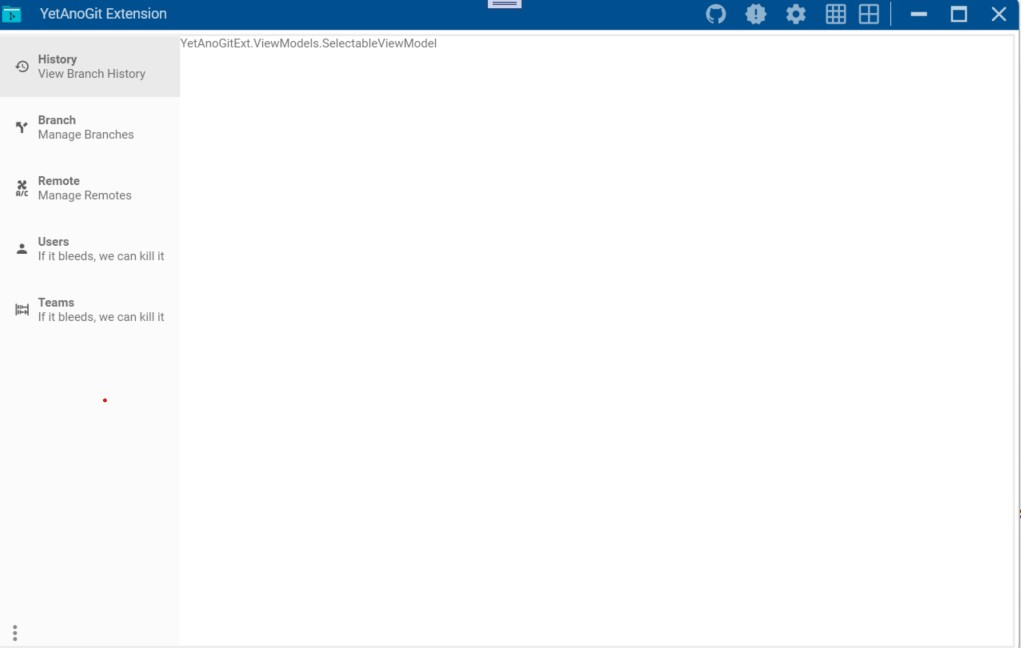
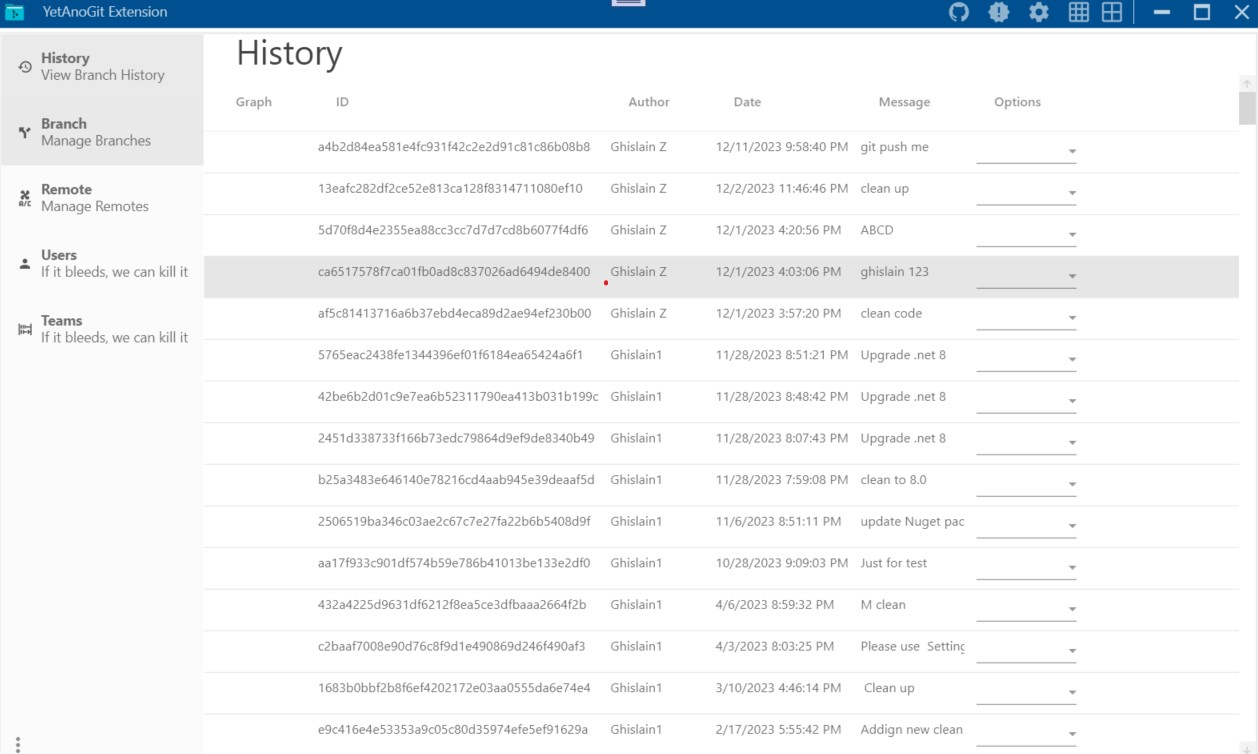
end

diff --git a/src/YetAnoGitExt/Views/History/HistoryView.xaml b/src/YetAnoGitExt/Views/History/HistoryView.xaml
@@ -9,7 +9,46 @@
     d:DesignHeight="450"
     d:DesignWidth="800"
     mc:Ignorable="d">
-  <Grid>
-   
-  </Grid>
+    <Grid>
+        <Grid.ColumnDefinitions>
+            <ColumnDefinition />
+        </Grid.ColumnDefinitions>
+        <Grid.RowDefinitions>
+            <RowDefinition Height="Auto" />
+            <RowDefinition Height="*" />
+        </Grid.RowDefinitions>
+
+        <TextBlock
+            Grid.Row="0"
+            Grid.Column="0"
+            Margin="32,0,0,0"
+            Style="{StaticResource MaterialDesignHeadline4TextBlock}"
+            Text="{Binding Name}" />
+
+        <ListView
+            Grid.Row="1"
+            Grid.Column="0"
+            ItemsSource="{Binding GitRevisionCollection}">
+            <ListView.View>
+                <GridView>
+                    <GridViewColumn DisplayMemberBinding="{Binding Graph}" Header="Graph" />
+                    <GridViewColumn DisplayMemberBinding="{Binding Guid}" Header="ID" />
+                    <GridViewColumn DisplayMemberBinding="{Binding Author}" Header="Author" />
+          <GridViewColumn DisplayMemberBinding="{Binding CommitDate}" Header="Date" />
+          <GridViewColumn DisplayMemberBinding="{Binding Subject}" Header="Message" />
+          <GridViewColumn Header="Options">
+                        <GridViewColumn.CellTemplate>
+                            <DataTemplate>
+                                <ComboBox Width="100">
+                                    <ComboBoxItem Content="Test" />
+                                    <ComboBoxItem Content="Test2" />
+                                    <ComboBoxItem Content="Test3" />
+                                </ComboBox>
+                            </DataTemplate>
+                        </GridViewColumn.CellTemplate>
+                    </GridViewColumn>
+                </GridView>
+            </ListView.View>
+        </ListView>
+    </Grid>
 </UserControl>

diff --git a/src/YetAnoGitExt.ControlEx/Themes/WindowExt.xaml b/src/YetAnoGitExt.ControlEx/Themes/WindowExt.xaml
@@ -229,9 +229,15 @@
         <Setter Property="BorderForegroundBrush" Value="{DynamicResource PrimaryHueDarkForegroundBrush}" />
         <Setter Property="FontFamily" Value="pack://application:,,,/MaterialDesignThemes.Wpf;component/Resources/Roboto/#Roboto" />
         <Setter Property="FadeContentIfInactive" Value="True" />
-        <Setter Property="MinWidth" Value="128" />
-        <Setter Property="MinHeight" Value="128" />
-        <Setter Property="TitleBarIcon" Value="{Binding Path=Icon, RelativeSource={RelativeSource Self}}" />
+ 
+    <Setter Property="FontFamily" Value="{wpf:NotoFont}" />
+    <Setter Property="TextElement.FontSize" Value="14" />
+    <Setter Property="TextElement.FontWeight" Value="Regular" />
+    <Setter Property="TextElement.Foreground" Value="{DynamicResource MaterialDesign.Brush.Foreground}" />
+    <Setter Property="TextOptions.TextFormattingMode" Value="Ideal" />
+    <Setter Property="TextOptions.TextRenderingMode" Value="Auto" />
+      
+    <Setter Property="TitleBarIcon" Value="{Binding Path=Icon, RelativeSource={RelativeSource Self}}" />
         <Setter Property="TitleTemplate">
             <Setter.Value>
                 <DataTemplate>

diff --git a/src/YetAnoGitExt/Views/ShellWindow.xaml b/src/YetAnoGitExt/Views/ShellWindow.xaml
@@ -19,9 +19,10 @@
     Icon="pack://application:,,,/YetAnoGitExt;component/images/icons/TitleBarIcon.ico"
     TitleBarIcon="pack://application:,,,/YetAnoGitExt;component/images/icons/TitleBarIcon.ico"
     mc:Ignorable="d">
+  
     <controls:WindowExt.Resources>
         <DataTemplate DataType="{x:Type history2:HistoryViewModel}">
-            <history1:HistoryView />
+            <history1:HistoryView  />
         </DataTemplate>
     </controls:WindowExt.Resources>
 
@@ -62,7 +63,8 @@
                 DataContext="{Binding LeftSideViewModel}" />
         </materialDesign:DrawerHost.LeftDrawerContent>
 
-        <TextBlock Text="{Binding LeftSideViewModel.SelectableViewModel}" />
+    
+    <ContentControl Content="{Binding LeftSideViewModel.SelectableViewModel}"  />
 
-    </materialDesign:DrawerHost>
+  </materialDesign:DrawerHost>
 </controls:WindowExt>

diff --git a/src/YetAnoGitExt/ViewModels/History/HistoryViewModel.cs b/src/YetAnoGitExt/ViewModels/History/HistoryViewModel.cs
@@ -3,10 +3,96 @@
 using Prism.Mvvm;
 using System;
 using System.Collections.Generic;
+using System.Collections.ObjectModel;
 using System.Linq;
 using System.Text;
 using System.Threading.Tasks;
+using YetAnoGitExt.Core;
+using YetAnoGitExt.Core.Models;
 
-public class HistoryViewModel: BindableBase
+public class HistoryViewModel : BindableBase, ISelectableViewModel
 {
+    private bool isSelected;
+    private string? name;
+    private string? description;
+    private char code;
+    private double numeric;
+    private string? kind;
+    private string? files;
+    private string gitFullPathExe = "C:\\Program Files\\Git\\bin\\git.exe";
+    private string workingDirectory = "C:\\git\\ZoeProg";
+    private string revisionFilter = "--max-count=100000 --exclude=refs/notes/commits --all";
+
+    private ObservableCollection<GitRevision> gitRevisionCollection = null!;
+
+    private readonly IGitRevisionService gitRevisionService;
+    public HistoryViewModel(IGitRevisionService gitRevisionService)
+    {
+        this.gitRevisionService = gitRevisionService;
+        this.LoadRevisionsAsync();
+    }
+    private async Task LoadRevisionsAsync()
+    {
+        var cancellationTokenSource = new CancellationTokenSource();
+
+        var arguments = "-c log.showSignature=false log -z --pretty=format:\"%H%T%P%n%at%n%ct%n%aN%n%aE%n%cN%n%cE%n%B\" --max-count=100000 --exclude=refs/notes/commits --all --";
+        var outputEncoding = Encoding.UTF8;
+        var items = await gitRevisionService.GetLogAsync(revisionFilter, cancellationTokenSource.Token, this.gitFullPathExe, this.workingDirectory, arguments, outputEncoding);
+        this.GitRevisionCollection = new ObservableCollection<GitRevision>(items);
+    }
+
+    public string WorkingDirectory
+    {
+        get => this.workingDirectory;
+        set => this.SetProperty(ref this.workingDirectory, value);
+    }
+    public ObservableCollection<GitRevision> GitRevisionCollection
+    {
+        get => this.gitRevisionCollection;
+        set => this.SetProperty(ref this.gitRevisionCollection, value);
+    }
+
+
+
+    public bool IsSelected
+    {
+        get => this.isSelected;
+        set => this.SetProperty(ref this.isSelected, value);
+    }
+
+    public char Code
+    {
+        get => this.code;
+        set => this.SetProperty(ref this.code, value);
+    }
+
+    public string? Name
+    {
+        get => this.name;
+        set => this.SetProperty(ref this.name, value);
+    }
+
+    public string? Description
+    {
+        get => this.description;
+        set => this.SetProperty(ref this.description, value);
+    }
+
+    public double Numeric
+    {
+        get => this.numeric;
+        set => this.SetProperty(ref this.numeric, value);
+    }
+
+    public string? Kind
+    {
+        get => this.kind;
+        set => this.SetProperty(ref this.kind, value);
+    }
+
+    public string? Files
+    {
+        get => this.files;
+        set => this.SetProperty(ref this.files, value);
+    }
 }

diff --git a/src/YetAnoGitExt/ViewModels/LeftSideViewModel.cs b/src/YetAnoGitExt/ViewModels/LeftSideViewModel.cs
@@ -9,50 +9,52 @@ using System.Text;
 using System.Threading.Tasks;
 using YetAnoGitExt.Core;
 using YetAnoGitExt.Core.Models;
+using YetAnoGitExt.Core.Services;
+using YetAnoGitExt.ViewModels.History;
 
 public class LeftSideViewModel : BindableBase
 {
 
-    public ObservableCollection<SelectableViewModel> Items { get; set; }
+    public ObservableCollection<ISelectableViewModel> Items { get; set; }
 
     private readonly IGitRevisionService gitRevisionService;
     public LeftSideViewModel(IGitRevisionService gitRevisionService)
     {
         this.gitRevisionService = gitRevisionService;
-        this.Items = CreateData();
+        this.Items = CreateData(gitRevisionService);
     }
-    private SelectableViewModel selectableViewModel;
-    public SelectableViewModel SelectableViewModel
+    private ISelectableViewModel selectableViewModel;
+    public ISelectableViewModel SelectableViewModel
     {
         get => this.selectableViewModel;
         set => this.SetProperty(ref this.selectableViewModel, value);
     }
-    private static ObservableCollection<SelectableViewModel> CreateData()
+    private static ObservableCollection<ISelectableViewModel> CreateData(IGitRevisionService gitRevisionService)
     {
-        return new ObservableCollection<SelectableViewModel>
+        return new ObservableCollection<ISelectableViewModel>
         {
-            new SelectableViewModel
+            new HistoryViewModel(gitRevisionService)
             {
                 Code = 'M',
                 Name = "History",
                 Description = "View Branch History",
                 Kind="History"
             },
-            new SelectableViewModel
+           new HistoryViewModel(gitRevisionService)
             {
                 Code = 'D',
                 Name = "Branch",
                 Description = "Manage Branches",
                 Kind = "DirectionsFork"
             },
-            new SelectableViewModel
+           new HistoryViewModel(gitRevisionService)
             {
                 Code = 'P',
                 Name = "Remote",
                 Description = "Manage Remotes",
                 Kind = "AcUnit"
             },
-               new SelectableViewModel
+         new HistoryViewModel(gitRevisionService)
             {
                 Code = 'P',
                 Name = "Users",
@@ -60,7 +62,7 @@ public class LeftSideViewModel : BindableBase
                Kind = "Account"
             }
                ,
-                  new SelectableViewModel
+           new HistoryViewModel(gitRevisionService)
             {
                 Code = 'P',
                 Name = "Teams",

diff --git a/src/YetAnoGitExt/ViewModels/ShellWindowViewModel.cs b/src/YetAnoGitExt/ViewModels/ShellWindowViewModel.cs
@@ -22,46 +22,12 @@ using YetAnoGitExt.Core.Services;
 public class ShellWindowViewModel : BindableBase
 {
     private IGitRevisionService gitRevisionService;
-    private string gitFullPathExe = "C:\\Program Files\\Git\\bin\\git.exe";
-    private string workingDirectory = "C:\\git\\ZoeProg";
-    private string revisionFilter = "--max-count=100000 --exclude=refs/notes/commits --all";
-
-
-    public string WorkingDirectory
-    {
-        get => this.workingDirectory;
-        set => this.SetProperty(ref this.workingDirectory, value);
-    }
-    private ObservableCollection<GitRevision> gitRevisionCollection = null!;
-
     public LeftSideViewModel LeftSideViewModel { get; set; }
-
-
-
-    public ObservableCollection<GitRevision> GitRevisionCollection
-    {
-        get => this.gitRevisionCollection;
-        set => this.SetProperty(ref this.gitRevisionCollection, value);
-    }
-
     public ShellWindowViewModel()
     {
         this.gitRevisionService = new GitRevisionService();
         this.LeftSideViewModel = new LeftSideViewModel(this.gitRevisionService);
-        this.LoadDataAsync();
-    }
-
-    private async Task LoadDataAsync()
-    {
-        var cancellationTokenSource = new CancellationTokenSource();
-
-        var arguments = "-c log.showSignature=false log -z --pretty=format:\"%H%T%P%n%at%n%ct%n%aN%n%aE%n%cN%n%cE%n%B\" --max-count=100000 --exclude=refs/notes/commits --all --";
-        var outputEncoding = Encoding.UTF8;
-        var items = await gitRevisionService.GetLogAsync(revisionFilter, cancellationTokenSource.Token, this.gitFullPathExe, this.workingDirectory, arguments, outputEncoding);
-        this.GitRevisionCollection = new ObservableCollection<GitRevision>(items);
-
 
     }
-
 
 }

diff --git a/src/YetAnoGitExt.Core/ISelectableViewModel.cs b/src/YetAnoGitExt.Core/ISelectableViewModel.cs
@@ -1,0 +1,24 @@
+// <copyright company="Ghislain One Inc.">
+//  Copyright (c) GhislainOne
+//  This computer program includes confidential, proprietary
+//  information and is a trade secret of GhislainOne. All use,
+//  disclosure, or reproduction is prohibited unless authorized in
+//  writing by an officer of Ghis. All Rights Reserved.
+// </copyright>
+
+namespace YetAnoGitExt.Core;
+
+using System;
+using System.Collections.Generic;
+using System.Linq;
+using System.Text;
+using System.Threading.Tasks;
+
+public interface ISelectableViewModel
+{
+    string? Name { get; set; }
+    string? Description { get; set; }
+    string? Kind { get; set; }
+    bool IsSelected { get; set; }
+    char Code { get; set; }
+}

diff --git a/src/YetAnoGitExt.Core/Models/IGitItem.cs b/src/YetAnoGitExt.Core/Models/IGitItem.cs
@@ -1,0 +1,16 @@
+// <copyright company="Ghislain One Inc.">
+//  Copyright (c) GhislainOne
+//  This computer program includes confidential, proprietary
+//  information and is a trade secret of GhislainOne. All use,
+//  disclosure, or reproduction is prohibited unless authorized in
+//  writing by an officer of Ghis. All Rights Reserved.
+// </copyright>
+
+namespace YetAnoGitExt.Core.Models;
+
+public interface IGitItem
+{
+    ObjectId? ObjectId { get; }
+
+    string? Guid { get; }
+}

diff --git a/src/YetAnoGitExt.Core/Models/GitRevision.cs b/src/YetAnoGitExt.Core/Models/GitRevision.cs
@@ -13,12 +13,6 @@ using System.Collections.Generic;
 using System.Linq;
 using System.Text;
 using System.Threading.Tasks;
-public interface IGitItem
-{
-    ObjectId? ObjectId { get; }
-
-    string? Guid { get; }
-}
 public class GitRevision : IGitItem
 {
 

diff --git a/src/YetAnoGitExt/Views/History/HistoryView.xaml.cs b/src/YetAnoGitExt/Views/History/HistoryView.xaml.cs
@@ -18,7 +18,7 @@ using System.Windows.Shapes;
 /// <summary>
 /// Interaction logic for HistoryView.xaml
 /// </summary>
-public partial class HistoryView: UserControl
+public partial class HistoryView : UserControl
 {
     public HistoryView()
     {

diff --git a/README.md b/README.md
@@ -1,7 +1,7 @@
 # What's is this?
 **Yet Another Git Extension Tool** (YetAnoGit Extension) is a user friendly interface to manange git project. It is a WPF Application based on .NET 8 and written in C# language.
 
-<img src="./assets/Imgs/Mainpage.jpg" alt="The Main page YetAnoGit " style="height: 100px; width:200px;"/>
+<img src="./assets/Imgs/Mainpage.jpg" alt="The Main page YetAnoGit " style="height: 800px; width: 1000px;"/>
 
 # Main features
 - Manage branches
